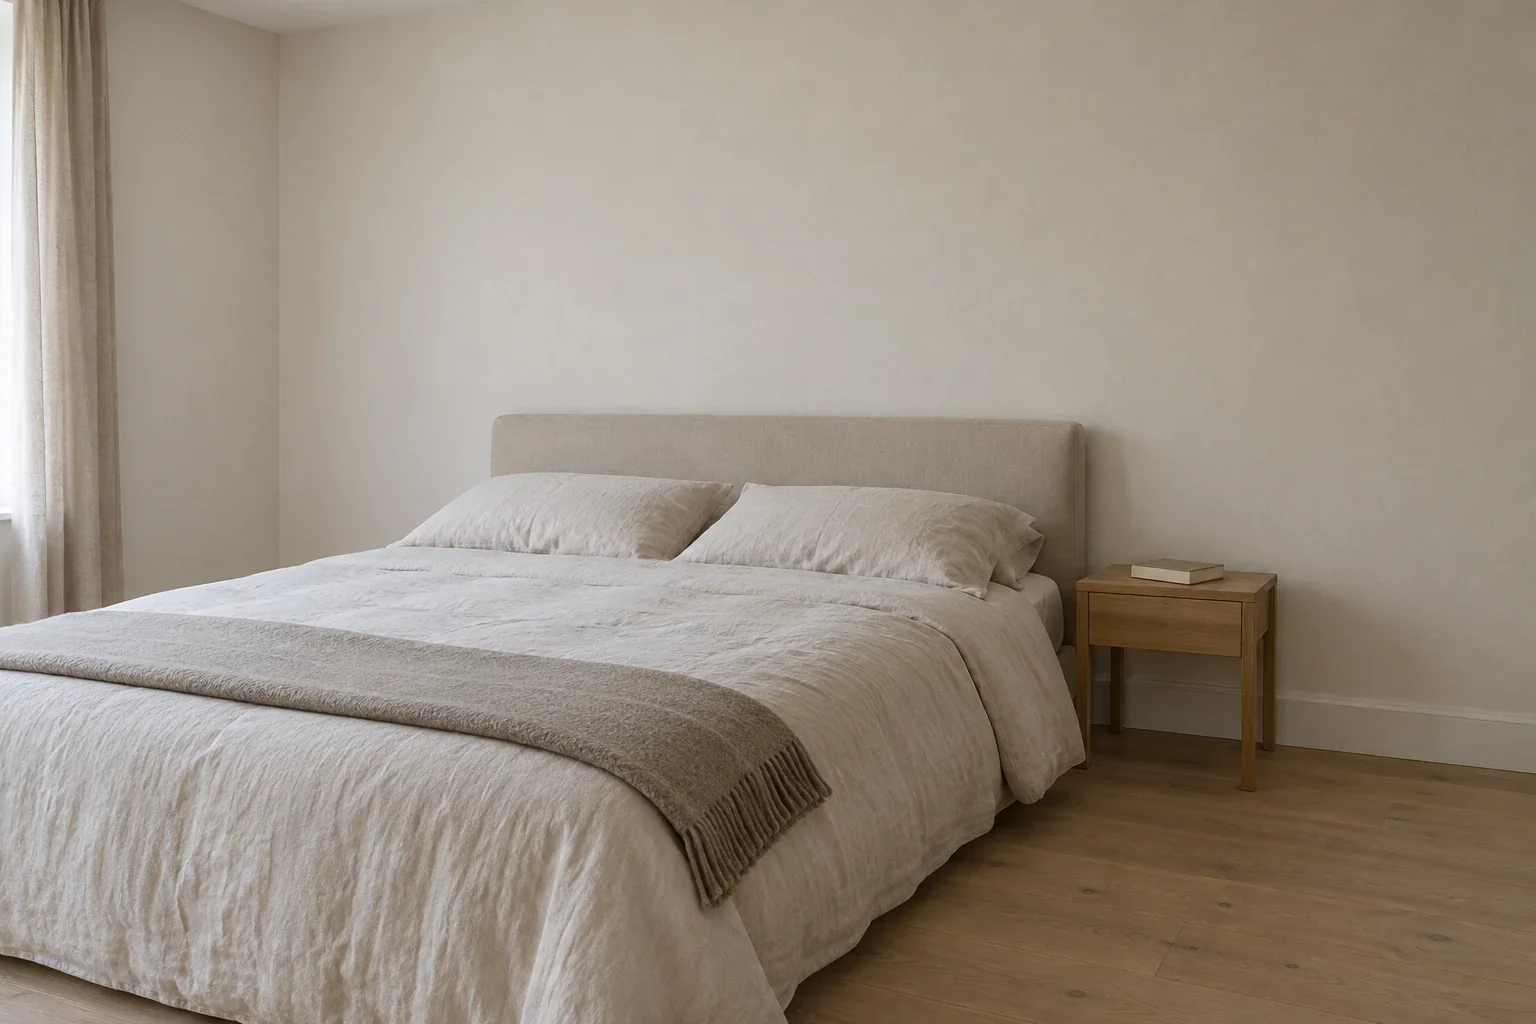
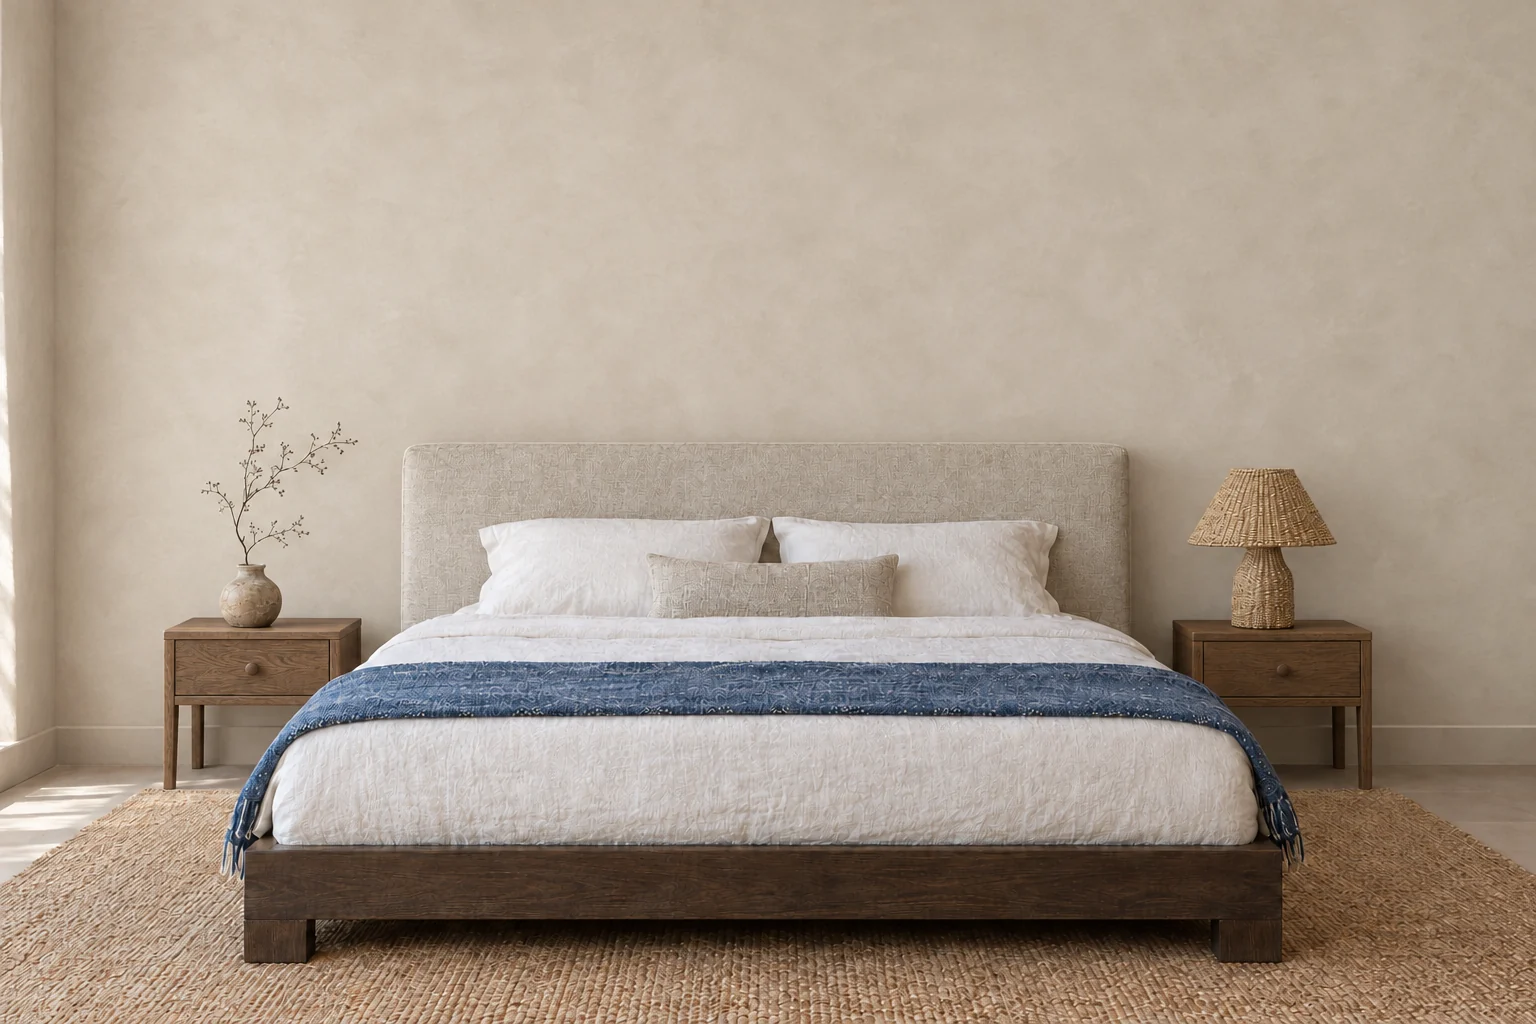
In your space: new straight-on bedroom, opens at 36x24
Kae felt the old angled bedroom only worked close up: in the whole-room view
the piece was tiny and washed into an all-beige room. The new Copilot room is
seen straight on with the wall behind the bed filling the frame, a dark oak
bed, linen headboard and an indigo throw.

- rooms/bedroom.webp replaced; bedroom is now a frontal wall
  (3.05 px/cm from the bedside tables and skirting, floor at y=765), pieces
  centred over the headboard and kept 120 cm+ above the floor.
- Rooms can set an optional default_size; the bedroom opens at 24x36
  (36x24 for landscapes), the size that suits a king bed. An explicit ?size
  still wins.

diff --git a/cycle-i/in-your-space/index.html b/cycle-i/in-your-space/index.html
@@ -861,7 +861,7 @@ function markLoaded(e) {
   <main id="view-root"><div class="rv"><p class="rv-label">Cycle I</p><h2 class="rv-title">In your space</h2><noscript><p class="rv-note" style="text-align:center">This room preview needs JavaScript. <a href="/works/">Back to the works</a>.</p></noscript><div class="rv-layout" id="rv-js" hidden><figure class="rv-stage"><div class="rv-room" id="rv-room" role="img"><div class="rv-scene" id="rv-scene"><img class="rv-plate" id="rv-plate" alt="" decoding="async"><div class="rv-wall" id="rv-wall"><div class="rv-fr" id="rv-fr"></div><div class="rv-mat" id="rv-mat"></div><img class="rv-art" id="rv-art" alt="" decoding="async"><div class="rv-glass" id="rv-glass" aria-hidden="true"></div></div></div></div><figcaption class="rv-cap" id="rv-cap" aria-live="polite"></figcaption></figure><div class="rv-controls"><div><label for="rv-piece">Piece</label><select class="rv-select" id="rv-piece"><option value="no-fixed-point">No Fixed Point</option><option value="enough">Enough</option><option value="half-a-turn">Half a Turn</option><option value="second-wind">Second Wind</option><option value="same-wish">Same Wish</option><option value="bound-to-outlast">Bound to Outlast</option><option value="not-yet-on">Not Yet On</option><option value="already-landed">Already Landed</option><option value="one-more">One More</option><option value="between-the-marks">Between the Marks</option><option value="steady-without-me">Steady Without Me</option><option value="the-shine-holds">The Shine Holds</option><option value="out-of-our-own">Out of Our Own</option><option value="where-i-remain">Where I Remain</option><option value="wired-time">Wired Time</option><option value="still-turning">Still Turning</option><option value="what-stayed-open">What Stayed Open</option><option value="nothing-left-to-tie">Nothing Left to Tie</option><option value="where-the-heat-was">Where the Heat Was</option><option value="her-hands-go-first">Her Hands Go First</option><option value="wonder-dread">Wonder &amp; Dread</option><option value="yet-to-let-go">Yet to Let Go</option><option value="always-left-open">Always Left Open</option><option value="a-second-behind">A Second Behind</option><option value="before-it-works">Before It Works</option><option value="no-need-to-run">No Need to Run</option><option value="still-red">Still Red</option></select></div><fieldset><legend>View</legend><div class="rv-opts"><label class="rv-opt"><input type="radio" name="rv-view" value="close"><span>Close</span></label><label class="rv-opt"><input type="radio" name="rv-view" value="room"><span>Whole room</span></label></div></fieldset><fieldset><legend>Room</legend><div class="rv-opts"><label class="rv-opt"><input type="radio" name="rv-room" value="living"><span>Living room</span></label><label class="rv-opt"><input type="radio" name="rv-room" value="bedroom"><span>Bedroom</span></label><label class="rv-opt"><input type="radio" name="rv-room" value="home"><span>Reading corner</span></label><label class="rv-opt"><input type="radio" name="rv-room" value="studio"><span>Studio</span></label><label class="rv-opt"><input type="radio" name="rv-room" value="library"><span>Library</span></label><label class="rv-opt"><input type="radio" name="rv-room" value="hallway"><span>Hallway</span></label></div></fieldset><fieldset><legend>Size</legend><div class="rv-opts"><label class="rv-opt"><input type="radio" name="rv-size" value="12x18"><span>12 × 18 in</span></label><label class="rv-opt"><input type="radio" name="rv-size" value="16x24"><span>16 × 24 in</span></label><label class="rv-opt"><input type="radio" name="rv-size" value="20x30"><span>20 × 30 in</span></label><label class="rv-opt"><input type="radio" name="rv-size" value="24x36"><span>24 × 36 in</span></label></div></fieldset><p class="rv-note">Sizes are illustrative, shown at true scale against the furniture.</p><a class="rv-back" id="rv-back" href="/works/">&larr; Back to the piece</a></div></div></div></main>
 <script>
 (function () {
-  var D = {"pieces": [{"slug": "no-fixed-point", "title": "No Fixed Point", "title_html": "No Fixed Point", "img": "/assets/art/no-fixed-point.webp", "w": 1000, "h": 667}, {"slug": "enough", "title": "Enough", "title_html": "Enough", "img": "/assets/art/enough.webp", "w": 1000, "h": 667}, {"slug": "half-a-turn", "title": "Half a Turn", "title_html": "Half a Turn", "img": "/assets/art/half-a-turn.webp", "w": 1000, "h": 667}, {"slug": "second-wind", "title": "Second Wind", "title_html": "Second Wind", "img": "/assets/art/second-wind.webp", "w": 667, "h": 1000}, {"slug": "same-wish", "title": "Same Wish", "title_html": "Same Wish", "img": "/assets/art/same-wish.webp", "w": 667, "h": 1000}, {"slug": "bound-to-outlast", "title": "Bound to Outlast", "title_html": "Bound to Outlast", "img": "/assets/art/bound-to-outlast.webp", "w": 1000, "h": 667}, {"slug": "not-yet-on", "title": "Not Yet On", "title_html": "Not Yet On", "img": "/assets/art/not-yet-on.webp", "w": 667, "h": 1000}, {"slug": "already-landed", "title": "Already Landed", "title_html": "Already Landed", "img": "/assets/art/already-landed.webp", "w": 1000, "h": 667}, {"slug": "one-more", "title": "One More", "title_html": "One More", "img": "/assets/art/one-more.webp", "w": 1000, "h": 667}, {"slug": "between-the-marks", "title": "Between the Marks", "title_html": "Between the Marks", "img": "/assets/art/between-the-marks.webp", "w": 1000, "h": 667}, {"slug": "steady-without-me", "title": "Steady Without Me", "title_html": "Steady Without Me", "img": "/assets/art/steady-without-me.webp", "w": 1000, "h": 667}, {"slug": "the-shine-holds", "title": "The Shine Holds", "title_html": "The Shine Holds", "img": "/assets/art/the-shine-holds.webp", "w": 667, "h": 1000}, {"slug": "out-of-our-own", "title": "Out of Our Own", "title_html": "Out of Our Own", "img": "/assets/art/out-of-our-own.webp", "w": 1000, "h": 667}, {"slug": "where-i-remain", "title": "Where I Remain", "title_html": "Where I Remain", "img": "/assets/art/where-i-remain.webp", "w": 1000, "h": 667}, {"slug": "wired-time", "title": "Wired Time", "title_html": "Wired Time", "img": "/assets/art/wired-time.webp", "w": 1000, "h": 667}, {"slug": "still-turning", "title": "Still Turning", "title_html": "Still Turning", "img": "/assets/art/still-turning.webp", "w": 1000, "h": 667}, {"slug": "what-stayed-open", "title": "What Stayed Open", "title_html": "What Stayed Open", "img": "/assets/art/what-stayed-open.webp", "w": 667, "h": 1000}, {"slug": "nothing-left-to-tie", "title": "Nothing Left to Tie", "title_html": "Nothing Left to Tie", "img": "/assets/art/nothing-left-to-tie.webp", "w": 667, "h": 1000}, {"slug": "where-the-heat-was", "title": "Where the Heat Was", "title_html": "Where the Heat Was", "img": "/assets/art/where-the-heat-was.webp", "w": 667, "h": 1000}, {"slug": "her-hands-go-first", "title": "Her Hands Go First", "title_html": "Her Hands Go First", "img": "/assets/art/her-hands-go-first.webp", "w": 667, "h": 1000}, {"slug": "wonder-dread", "title": "Wonder & Dread", "title_html": "Wonder &amp; Dread", "img": "/assets/art/wonder-dread.webp", "w": 1000, "h": 667}, {"slug": "yet-to-let-go", "title": "Yet to Let Go", "title_html": "Yet to Let Go", "img": "/assets/art/yet-to-let-go.webp", "w": 1000, "h": 667}, {"slug": "always-left-open", "title": "Always Left Open", "title_html": "Always Left Open", "img": "/assets/art/always-left-open.webp", "w": 1000, "h": 667}, {"slug": "a-second-behind", "title": "A Second Behind", "title_html": "A Second Behind", "img": "/assets/art/a-second-behind.webp", "w": 1000, "h": 667}, {"slug": "before-it-works", "title": "Before It Works", "title_html": "Before It Works", "img": "/assets/art/before-it-works.webp", "w": 667, "h": 1000}, {"slug": "no-need-to-run", "title": "No Need to Run", "title_html": "No Need to Run", "img": "/assets/art/no-need-to-run.webp", "w": 667, "h": 1000}, {"slug": "still-red", "title": "Still Red", "title_html": "Still Red", "img": "/assets/art/still-red.webp", "w": 1000, "h": 667}], "rooms": [{"id": "living", "label": "Living room", "image": "/cycle-i/in-your-space/rooms/living.webp?v=8a4ac285", "size": [1536, 1024], "alt": "a wide living room seen at an angle, with a long linen sofa and a low oak coffee table", "camera": {"f": 1493, "cx": 768, "cy": 434, "theta_deg": 25.9, "corner_x": -272.5, "corner_z": 693, "eye_cm": 97.2}, "centre_u": 228, "u_range": [30, 540], "v_range": [90, 245]}, {"id": "bedroom", "label": "Bedroom", "image": "/cycle-i/in-your-space/rooms/bedroom.webp?v=a6a55f35", "size": [1536, 1024], "alt": "a calm bedroom seen at an angle, with a linen bed and a small oak bedside table", "camera": {"f": 1493, "cx": 768, "cy": 418, "theta_deg": 32.05, "corner_x": -368.4, "corner_z": 829.6, "eye_cm": 107.7}, "centre_u": 425.5, "u_range": [60, 560], "v_range": [117, 260]}, {"id": "home", "label": "Reading corner", "image": "/cycle-i/in-your-space/rooms/home.webp?v=839ce9fd", "size": [1024, 1536], "alt": "a quiet reading corner with a linen sofa and a small oak side table", "frontal": {"px_per_cm": 4.6, "floor_y": 1150}, "centre_u": 84.8, "u_range": [4.3, 218.3], "v_range": [88.0, 243.5]}, {"id": "studio", "label": "Studio", "image": "/cycle-i/in-your-space/rooms/studio.webp?v=6104fd32", "size": [1024, 1536], "alt": "a small studio office with a walnut desk and a woven chair", "frontal": {"px_per_cm": 4.68, "floor_y": 1200}, "centre_u": 109.4, "u_range": [5.1, 213.7], "v_range": [68.4, 250.0]}, {"id": "library", "label": "Library", "image": "/cycle-i/in-your-space/rooms/library.webp?v=24705496", "size": [1024, 1536], "alt": "a library reading lounge with a long wool bench and a low bookshelf", "frontal": {"px_per_cm": 4.2, "floor_y": 1285}, "centre_u": 90.5, "u_range": [4.8, 239.0], "v_range": [83.3, 298.8]}, {"id": "hallway", "label": "Hallway", "image": "/cycle-i/in-your-space/rooms/hallway.webp?v=a3a1c718", "size": [1024, 1536], "alt": "a narrow entrance hallway with a slim oak console table", "frontal": {"px_per_cm": 5.48, "floor_y": 1213}, "centre_u": 94.9, "u_range": [25.0, 167.2], "v_range": [86, 216]}], "sizes": ["12x18", "16x24", "20x30", "24x36"], "default_room": "living", "default_size": "16x24", "frame_cm": 1.8, "mat_cm": 6};
+  var D = {"pieces": [{"slug": "no-fixed-point", "title": "No Fixed Point", "title_html": "No Fixed Point", "img": "/assets/art/no-fixed-point.webp", "w": 1000, "h": 667}, {"slug": "enough", "title": "Enough", "title_html": "Enough", "img": "/assets/art/enough.webp", "w": 1000, "h": 667}, {"slug": "half-a-turn", "title": "Half a Turn", "title_html": "Half a Turn", "img": "/assets/art/half-a-turn.webp", "w": 1000, "h": 667}, {"slug": "second-wind", "title": "Second Wind", "title_html": "Second Wind", "img": "/assets/art/second-wind.webp", "w": 667, "h": 1000}, {"slug": "same-wish", "title": "Same Wish", "title_html": "Same Wish", "img": "/assets/art/same-wish.webp", "w": 667, "h": 1000}, {"slug": "bound-to-outlast", "title": "Bound to Outlast", "title_html": "Bound to Outlast", "img": "/assets/art/bound-to-outlast.webp", "w": 1000, "h": 667}, {"slug": "not-yet-on", "title": "Not Yet On", "title_html": "Not Yet On", "img": "/assets/art/not-yet-on.webp", "w": 667, "h": 1000}, {"slug": "already-landed", "title": "Already Landed", "title_html": "Already Landed", "img": "/assets/art/already-landed.webp", "w": 1000, "h": 667}, {"slug": "one-more", "title": "One More", "title_html": "One More", "img": "/assets/art/one-more.webp", "w": 1000, "h": 667}, {"slug": "between-the-marks", "title": "Between the Marks", "title_html": "Between the Marks", "img": "/assets/art/between-the-marks.webp", "w": 1000, "h": 667}, {"slug": "steady-without-me", "title": "Steady Without Me", "title_html": "Steady Without Me", "img": "/assets/art/steady-without-me.webp", "w": 1000, "h": 667}, {"slug": "the-shine-holds", "title": "The Shine Holds", "title_html": "The Shine Holds", "img": "/assets/art/the-shine-holds.webp", "w": 667, "h": 1000}, {"slug": "out-of-our-own", "title": "Out of Our Own", "title_html": "Out of Our Own", "img": "/assets/art/out-of-our-own.webp", "w": 1000, "h": 667}, {"slug": "where-i-remain", "title": "Where I Remain", "title_html": "Where I Remain", "img": "/assets/art/where-i-remain.webp", "w": 1000, "h": 667}, {"slug": "wired-time", "title": "Wired Time", "title_html": "Wired Time", "img": "/assets/art/wired-time.webp", "w": 1000, "h": 667}, {"slug": "still-turning", "title": "Still Turning", "title_html": "Still Turning", "img": "/assets/art/still-turning.webp", "w": 1000, "h": 667}, {"slug": "what-stayed-open", "title": "What Stayed Open", "title_html": "What Stayed Open", "img": "/assets/art/what-stayed-open.webp", "w": 667, "h": 1000}, {"slug": "nothing-left-to-tie", "title": "Nothing Left to Tie", "title_html": "Nothing Left to Tie", "img": "/assets/art/nothing-left-to-tie.webp", "w": 667, "h": 1000}, {"slug": "where-the-heat-was", "title": "Where the Heat Was", "title_html": "Where the Heat Was", "img": "/assets/art/where-the-heat-was.webp", "w": 667, "h": 1000}, {"slug": "her-hands-go-first", "title": "Her Hands Go First", "title_html": "Her Hands Go First", "img": "/assets/art/her-hands-go-first.webp", "w": 667, "h": 1000}, {"slug": "wonder-dread", "title": "Wonder & Dread", "title_html": "Wonder &amp; Dread", "img": "/assets/art/wonder-dread.webp", "w": 1000, "h": 667}, {"slug": "yet-to-let-go", "title": "Yet to Let Go", "title_html": "Yet to Let Go", "img": "/assets/art/yet-to-let-go.webp", "w": 1000, "h": 667}, {"slug": "always-left-open", "title": "Always Left Open", "title_html": "Always Left Open", "img": "/assets/art/always-left-open.webp", "w": 1000, "h": 667}, {"slug": "a-second-behind", "title": "A Second Behind", "title_html": "A Second Behind", "img": "/assets/art/a-second-behind.webp", "w": 1000, "h": 667}, {"slug": "before-it-works", "title": "Before It Works", "title_html": "Before It Works", "img": "/assets/art/before-it-works.webp", "w": 667, "h": 1000}, {"slug": "no-need-to-run", "title": "No Need to Run", "title_html": "No Need to Run", "img": "/assets/art/no-need-to-run.webp", "w": 667, "h": 1000}, {"slug": "still-red", "title": "Still Red", "title_html": "Still Red", "img": "/assets/art/still-red.webp", "w": 1000, "h": 667}], "rooms": [{"id": "living", "label": "Living room", "image": "/cycle-i/in-your-space/rooms/living.webp?v=8a4ac285", "size": [1536, 1024], "alt": "a wide living room seen at an angle, with a long linen sofa and a low oak coffee table", "camera": {"f": 1493, "cx": 768, "cy": 434, "theta_deg": 25.9, "corner_x": -272.5, "corner_z": 693, "eye_cm": 97.2}, "centre_u": 228, "u_range": [30, 540], "v_range": [90, 245]}, {"id": "bedroom", "label": "Bedroom", "image": "/cycle-i/in-your-space/rooms/bedroom.webp?v=bbd29ddc", "size": [1536, 1024], "alt": "a calm bedroom seen straight on, with a linen headboard, a dark oak bed and an indigo throw", "frontal": {"px_per_cm": 3.05, "floor_y": 765}, "centre_u": 251, "u_range": [18, 503], "v_range": [120, 245], "default_size": "24x36"}, {"id": "home", "label": "Reading corner", "image": "/cycle-i/in-your-space/rooms/home.webp?v=839ce9fd", "size": [1024, 1536], "alt": "a quiet reading corner with a linen sofa and a small oak side table", "frontal": {"px_per_cm": 4.6, "floor_y": 1150}, "centre_u": 84.8, "u_range": [4.3, 218.3], "v_range": [88.0, 243.5]}, {"id": "studio", "label": "Studio", "image": "/cycle-i/in-your-space/rooms/studio.webp?v=6104fd32", "size": [1024, 1536], "alt": "a small studio office with a walnut desk and a woven chair", "frontal": {"px_per_cm": 4.68, "floor_y": 1200}, "centre_u": 109.4, "u_range": [5.1, 213.7], "v_range": [68.4, 250.0]}, {"id": "library", "label": "Library", "image": "/cycle-i/in-your-space/rooms/library.webp?v=24705496", "size": [1024, 1536], "alt": "a library reading lounge with a long wool bench and a low bookshelf", "frontal": {"px_per_cm": 4.2, "floor_y": 1285}, "centre_u": 90.5, "u_range": [4.8, 239.0], "v_range": [83.3, 298.8]}, {"id": "hallway", "label": "Hallway", "image": "/cycle-i/in-your-space/rooms/hallway.webp?v=a3a1c718", "size": [1024, 1536], "alt": "a narrow entrance hallway with a slim oak console table", "frontal": {"px_per_cm": 5.48, "floor_y": 1213}, "centre_u": 94.9, "u_range": [25.0, 167.2], "v_range": [86, 216]}], "sizes": ["12x18", "16x24", "20x30", "24x36"], "default_room": "living", "default_size": "16x24", "frame_cm": 1.8, "mat_cm": 6};
   var $ = function (id) { return document.getElementById(id); };
   var room = $("rv-room"), scene = $("rv-scene"), plate = $("rv-plate"), wall = $("rv-wall"), fr = $("rv-fr"), mat = $("rv-mat"), art = $("rv-art"), glass = $("rv-glass");
   var sel = $("rv-piece"), cap = $("rv-cap"), back = $("rv-back"), lay = $("rv-js");
@@ -870,9 +870,10 @@ function markLoaded(e) {
   var state = {
     piece: bySlug[q.get("piece")] ? q.get("piece") : D.pieces[0].slug,
     room: D.rooms.some(function (r) { return r.id === q.get("room"); }) ? q.get("room") : D.default_room,
-    size: q.get("size") || D.default_size,
+    size: q.get("size"),
     view: q.get("view") === "room" ? "room" : "close"
   };
+  if (!state.size) state.size = roomOf(state.room).default_size || D.default_size;
   var view = null;   // camera: the part of the room image shown {x, y, w, h}
   function roomOf(id) { for (var i = 0; i < D.rooms.length; i++) if (D.rooms[i].id === id) return D.rooms[i]; return D.rooms[0]; }
   // Wall point (u along the wall, v above the floor, both cm) -> room image pixels.
@@ -931,7 +932,8 @@ function markLoaded(e) {
     D.sizes.forEach(function (s) { fits[s] = !!layout(p, r, s); });
     if (!fits[state.size]) {
       var ok = D.sizes.filter(function (s) { return fits[s]; });
-      state.size = ok.length ? (ok.indexOf(D.default_size) >= 0 ? D.default_size : ok[ok.length - 1]) : D.sizes[0];
+      var want = r.default_size || D.default_size;
+      state.size = ok.length ? (ok.indexOf(want) >= 0 ? want : ok[ok.length - 1]) : D.sizes[0];
     }
     var landP = p.w >= p.h;
     document.querySelectorAll('input[name="rv-size"]').forEach(function (i) {
@@ -963,7 +965,11 @@ function markLoaded(e) {
     try { history.replaceState(null, "", "?piece=" + p.slug + "&room=" + r.id + "&size=" + state.size + (state.view === "room" ? "&view=room" : "")); } catch (e) {}
   }
   sel.addEventListener("change", function () { state.piece = sel.value; render(); });
-  document.querySelectorAll('input[name="rv-room"]').forEach(function (i) { i.addEventListener("change", function () { state.room = i.value; render(); }); });
+  document.querySelectorAll('input[name="rv-room"]').forEach(function (i) { i.addEventListener("change", function () {
+    state.room = i.value;
+    if (roomOf(i.value).default_size) state.size = roomOf(i.value).default_size;   // e.g. the bedroom opens at the size that suits a king bed
+    render();
+  }); });
   document.querySelectorAll('input[name="rv-size"]').forEach(function (i) { i.addEventListener("change", function () { state.size = i.value; render(); }); });
   document.querySelectorAll('input[name="rv-view"]').forEach(function (i) { i.addEventListener("change", function () { state.view = i.value; render(); }); });
   lay.hidden = false;

diff --git a/tools/render_rooms.py b/tools/render_rooms.py
@@ -81,9 +81,10 @@ SCRIPT = r"""
   var state = {
     piece: bySlug[q.get("piece")] ? q.get("piece") : D.pieces[0].slug,
     room: D.rooms.some(function (r) { return r.id === q.get("room"); }) ? q.get("room") : D.default_room,
-    size: q.get("size") || D.default_size,
+    size: q.get("size"),
     view: q.get("view") === "room" ? "room" : "close"
   };
+  if (!state.size) state.size = roomOf(state.room).default_size || D.default_size;
   var view = null;   // camera: the part of the room image shown {x, y, w, h}
   function roomOf(id) { for (var i = 0; i < D.rooms.length; i++) if (D.rooms[i].id === id) return D.rooms[i]; return D.rooms[0]; }
   // Wall point (u along the wall, v above the floor, both cm) -> room image pixels.
@@ -142,7 +143,8 @@ SCRIPT = r"""
     D.sizes.forEach(function (s) { fits[s] = !!layout(p, r, s); });
     if (!fits[state.size]) {
       var ok = D.sizes.filter(function (s) { return fits[s]; });
-      state.size = ok.length ? (ok.indexOf(D.default_size) >= 0 ? D.default_size : ok[ok.length - 1]) : D.sizes[0];
+      var want = r.default_size || D.default_size;
+      state.size = ok.length ? (ok.indexOf(want) >= 0 ? want : ok[ok.length - 1]) : D.sizes[0];
     }
     var landP = p.w >= p.h;
     document.querySelectorAll('input[name="rv-size"]').forEach(function (i) {
@@ -174,7 +176,11 @@ SCRIPT = r"""
     try { history.replaceState(null, "", "?piece=" + p.slug + "&room=" + r.id + "&size=" + state.size + (state.view === "room" ? "&view=room" : "")); } catch (e) {}
   }
   sel.addEventListener("change", function () { state.piece = sel.value; render(); });
-  document.querySelectorAll('input[name="rv-room"]').forEach(function (i) { i.addEventListener("change", function () { state.room = i.value; render(); }); });
+  document.querySelectorAll('input[name="rv-room"]').forEach(function (i) { i.addEventListener("change", function () {
+    state.room = i.value;
+    if (roomOf(i.value).default_size) state.size = roomOf(i.value).default_size;   // e.g. the bedroom opens at the size that suits a king bed
+    render();
+  }); });
   document.querySelectorAll('input[name="rv-size"]').forEach(function (i) { i.addEventListener("change", function () { state.size = i.value; render(); }); });
   document.querySelectorAll('input[name="rv-view"]').forEach(function (i) { i.addEventListener("change", function () { state.view = i.value; render(); }); });
   lay.hidden = false;
